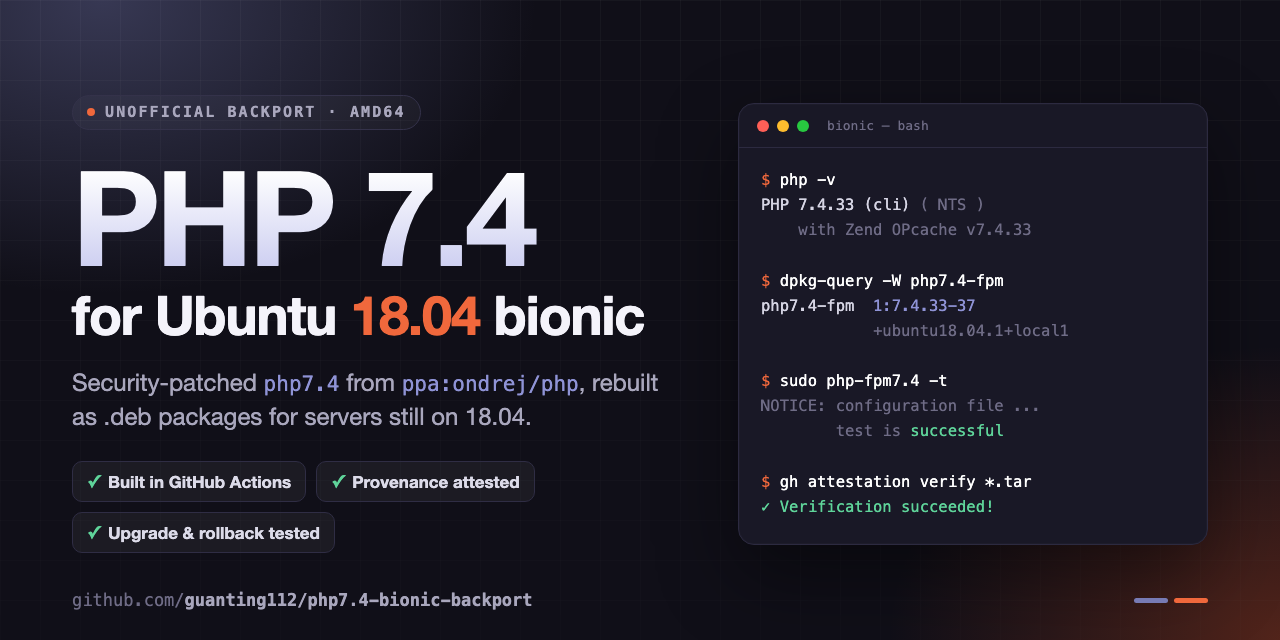
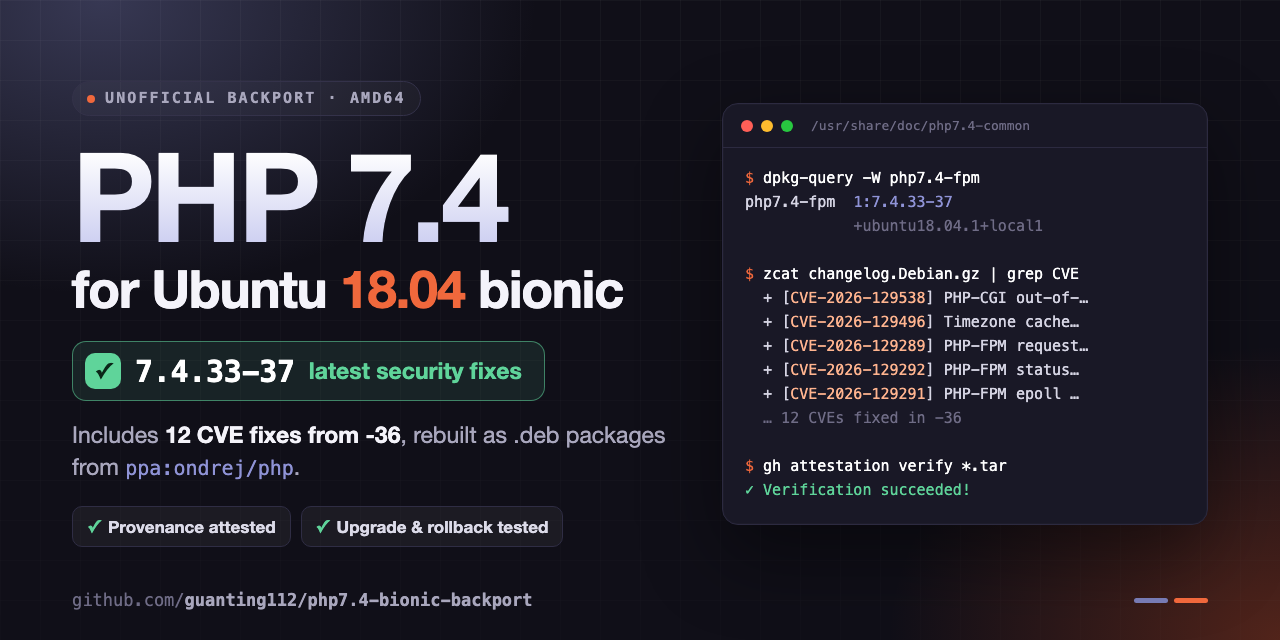
Cover: show 7.4.33-37 and the CVE fixes up front

diff --git a/.github/social-preview.html b/.github/social-preview.html
@@ -1,7 +1,7 @@
 <!doctype html>
 <!-- Source of social-preview.png (GitHub social preview, 1280x640).
-     Render: "Google Chrome" --headless=new --hide-scrollbars --window-size=1280,640 \
-               --screenshot=social-preview.png file://$PWD/social-preview.html -->
+     Render: "Google Chrome" --headless=new --hide-scrollbars --force-device-scale-factor=1 \
+               --window-size=1280,640 --screenshot=social-preview.png file://$PWD/social-preview.html -->
 <html lang="en">
 <head>
 <meta charset="utf-8">
@@ -44,10 +44,10 @@
   .wrap {
     position: relative;
     height: 100%;
-    padding: 64px 72px 56px;
+    padding: 52px 72px 64px;
     display: grid;
-    grid-template-columns: 1fr 470px;
-    column-gap: 56px;
+    grid-template-columns: 1fr 486px;
+    column-gap: 48px;
     align-items: center;
   }
   .eyebrow {
@@ -61,24 +61,41 @@
   }
   .eyebrow i { width: 8px; height: 8px; border-radius: 50%; background: var(--ubuntu); display: block; }
   h1 {
-    margin-top: 26px;
+    margin-top: 22px;
     font-weight: 800;
-    font-size: 132px; line-height: .92; letter-spacing: -.035em;
+    font-size: 124px; line-height: .92; letter-spacing: -.035em;
     background: linear-gradient(180deg, #ffffff 10%, #c9cbf0 100%);
     -webkit-background-clip: text; background-clip: text; color: transparent;
   }
   h2 {
-    margin-top: 10px;
-    font-weight: 700; font-size: 54px; line-height: 1.05; letter-spacing: -.02em;
+    margin-top: 8px;
+    font-weight: 700; font-size: 52px; line-height: 1.05; letter-spacing: -.02em;
     color: var(--ink);
   }
   h2 em { font-style: normal; color: var(--ubuntu); }
-  .lede {
-    margin-top: 22px; max-width: 600px;
-    font-size: 24px; line-height: 1.4; color: var(--muted);
+  .patch {
+    margin-top: 26px;
+    display: inline-flex; align-items: center; gap: 14px;
+    padding: 11px 22px 11px 12px;
+    border-radius: 14px;
+    background: rgba(95, 212, 154, .10);
+    border: 1.5px solid rgba(95, 212, 154, .55);
   }
-  .lede code { font: 500 21px ui-monospace, "SF Mono", Menlo, monospace; color: var(--php); }
-  .chips { margin-top: 28px; display: flex; flex-wrap: wrap; gap: 10px; }
+  .patch .tick {
+    width: 36px; height: 36px; border-radius: 10px;
+    background: var(--ok); color: #0b2619;
+    display: grid; place-items: center;
+    font-size: 22px; font-weight: 900;
+  }
+  .patch b { font: 700 30px ui-monospace, "SF Mono", Menlo, monospace; color: #fff; letter-spacing: -.01em; }
+  .patch span { font-size: 23px; font-weight: 700; color: var(--ok); }
+  .lede {
+    margin-top: 18px; max-width: 610px;
+    font-size: 23px; line-height: 1.4; color: var(--muted);
+  }
+  .lede strong { color: var(--ink); font-weight: 700; }
+  .lede code { font: 500 20px ui-monospace, "SF Mono", Menlo, monospace; color: var(--php); }
+  .chips { margin-top: 22px; display: flex; flex-wrap: wrap; gap: 10px; }
   .chip {
     font-size: 17px; font-weight: 600; color: #dcdbe9;
     padding: 9px 14px; border-radius: 10px;
@@ -101,8 +118,8 @@
   .bar span:nth-child(3) { background: #28c840; }
   .bar small { margin-left: 10px; font: 500 13px ui-monospace, "SF Mono", Menlo, monospace; color: var(--faint); }
   pre {
-    padding: 20px 22px 24px;
-    font: 500 15.5px/1.62 ui-monospace, "SF Mono", Menlo, monospace;
+    padding: 18px 22px 22px;
+    font: 500 15px/1.6 ui-monospace, "SF Mono", Menlo, monospace;
     color: #d6d5e4; white-space: pre;
   }
   .p { color: var(--ubuntu); }
@@ -110,6 +127,7 @@
   .d { color: var(--faint); }
   .v { color: var(--php); }
   .ok { color: var(--ok); }
+  .cve { color: #ffb48f; }
 
   .foot {
     position: absolute; left: 72px; right: 72px; bottom: 30px;
@@ -130,27 +148,27 @@
       <span class="eyebrow"><i></i>Unofficial backport · amd64</span>
       <h1>PHP 7.4</h1>
       <h2>for Ubuntu <em>18.04</em> bionic</h2>
-      <p class="lede">Security-patched <code>php7.4</code> from <code>ppa:ondrej/php</code>, rebuilt as .deb packages for servers still on 18.04.</p>
+      <div class="patch"><span class="tick">✓</span><b>7.4.33-37</b><span>latest security fixes</span></div>
+      <p class="lede">Includes <strong>12 CVE fixes from -36</strong>, rebuilt as .deb packages from <code>ppa:ondrej/php</code>.</p>
       <div class="chips">
-        <span class="chip"><b>✓</b> Built in GitHub Actions</span>
         <span class="chip"><b>✓</b> Provenance attested</span>
         <span class="chip"><b>✓</b> Upgrade &amp; rollback tested</span>
       </div>
     </section>
 
     <aside class="term">
-      <div class="bar"><span></span><span></span><span></span><small>bionic — bash</small></div>
-<pre><span class="p">$</span> <span class="c">php -v</span>
-PHP 7.4.33 (cli) <span class="d">( NTS )</span>
-<span class="d">    with Zend OPcache v7.4.33</span>
-
-<span class="p">$</span> <span class="c">dpkg-query -W php7.4-fpm</span>
+      <div class="bar"><span></span><span></span><span></span><small>/usr/share/doc/php7.4-common</small></div>
+<pre><span class="p">$</span> <span class="c">dpkg-query -W php7.4-fpm</span>
 php7.4-fpm  <span class="v">1:7.4.33-37</span>
 <span class="d">            +ubuntu18.04.1+local1</span>
 
-<span class="p">$</span> <span class="c">sudo php-fpm7.4 -t</span>
-<span class="d">NOTICE: configuration file ...</span>
-<span class="d">        test is</span> <span class="ok">successful</span>
+<span class="p">$</span> <span class="c">zcat changelog.Debian.gz | grep CVE</span>
+  + [<span class="cve">CVE-2026-129538</span>] PHP-CGI out-of-…
+  + [<span class="cve">CVE-2026-129496</span>] Timezone cache…
+  + [<span class="cve">CVE-2026-129289</span>] PHP-FPM request…
+  + [<span class="cve">CVE-2026-129292</span>] PHP-FPM status…
+  + [<span class="cve">CVE-2026-129291</span>] PHP-FPM epoll …
+<span class="d">  … 12 CVEs fixed in -36</span>
 
 <span class="p">$</span> <span class="c">gh attestation verify *.tar</span>
 <span class="ok">✓ Verification succeeded!</span></pre>
